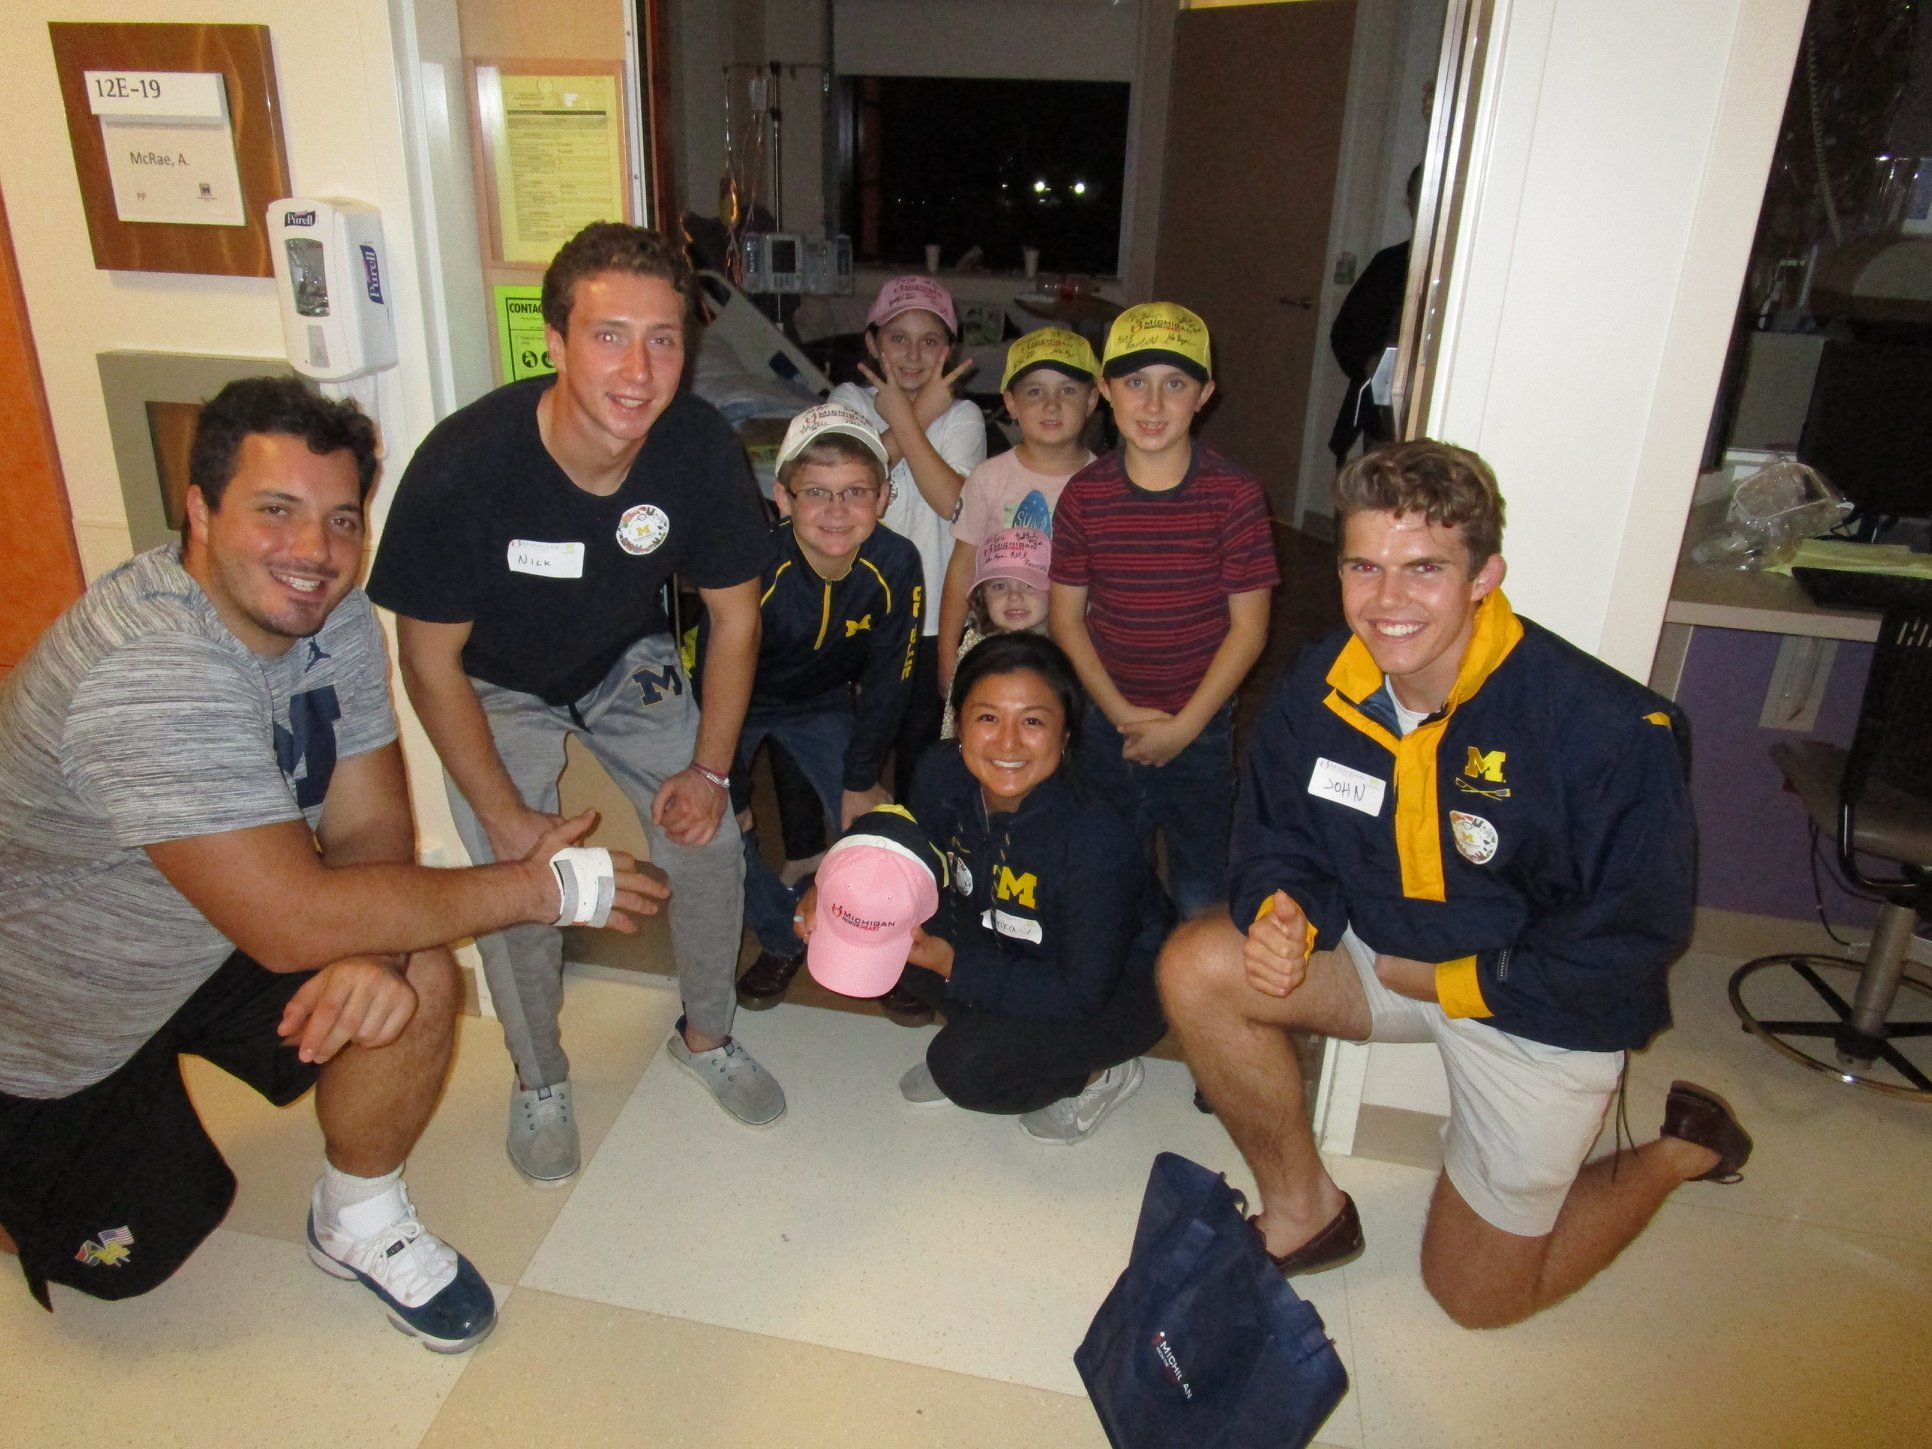
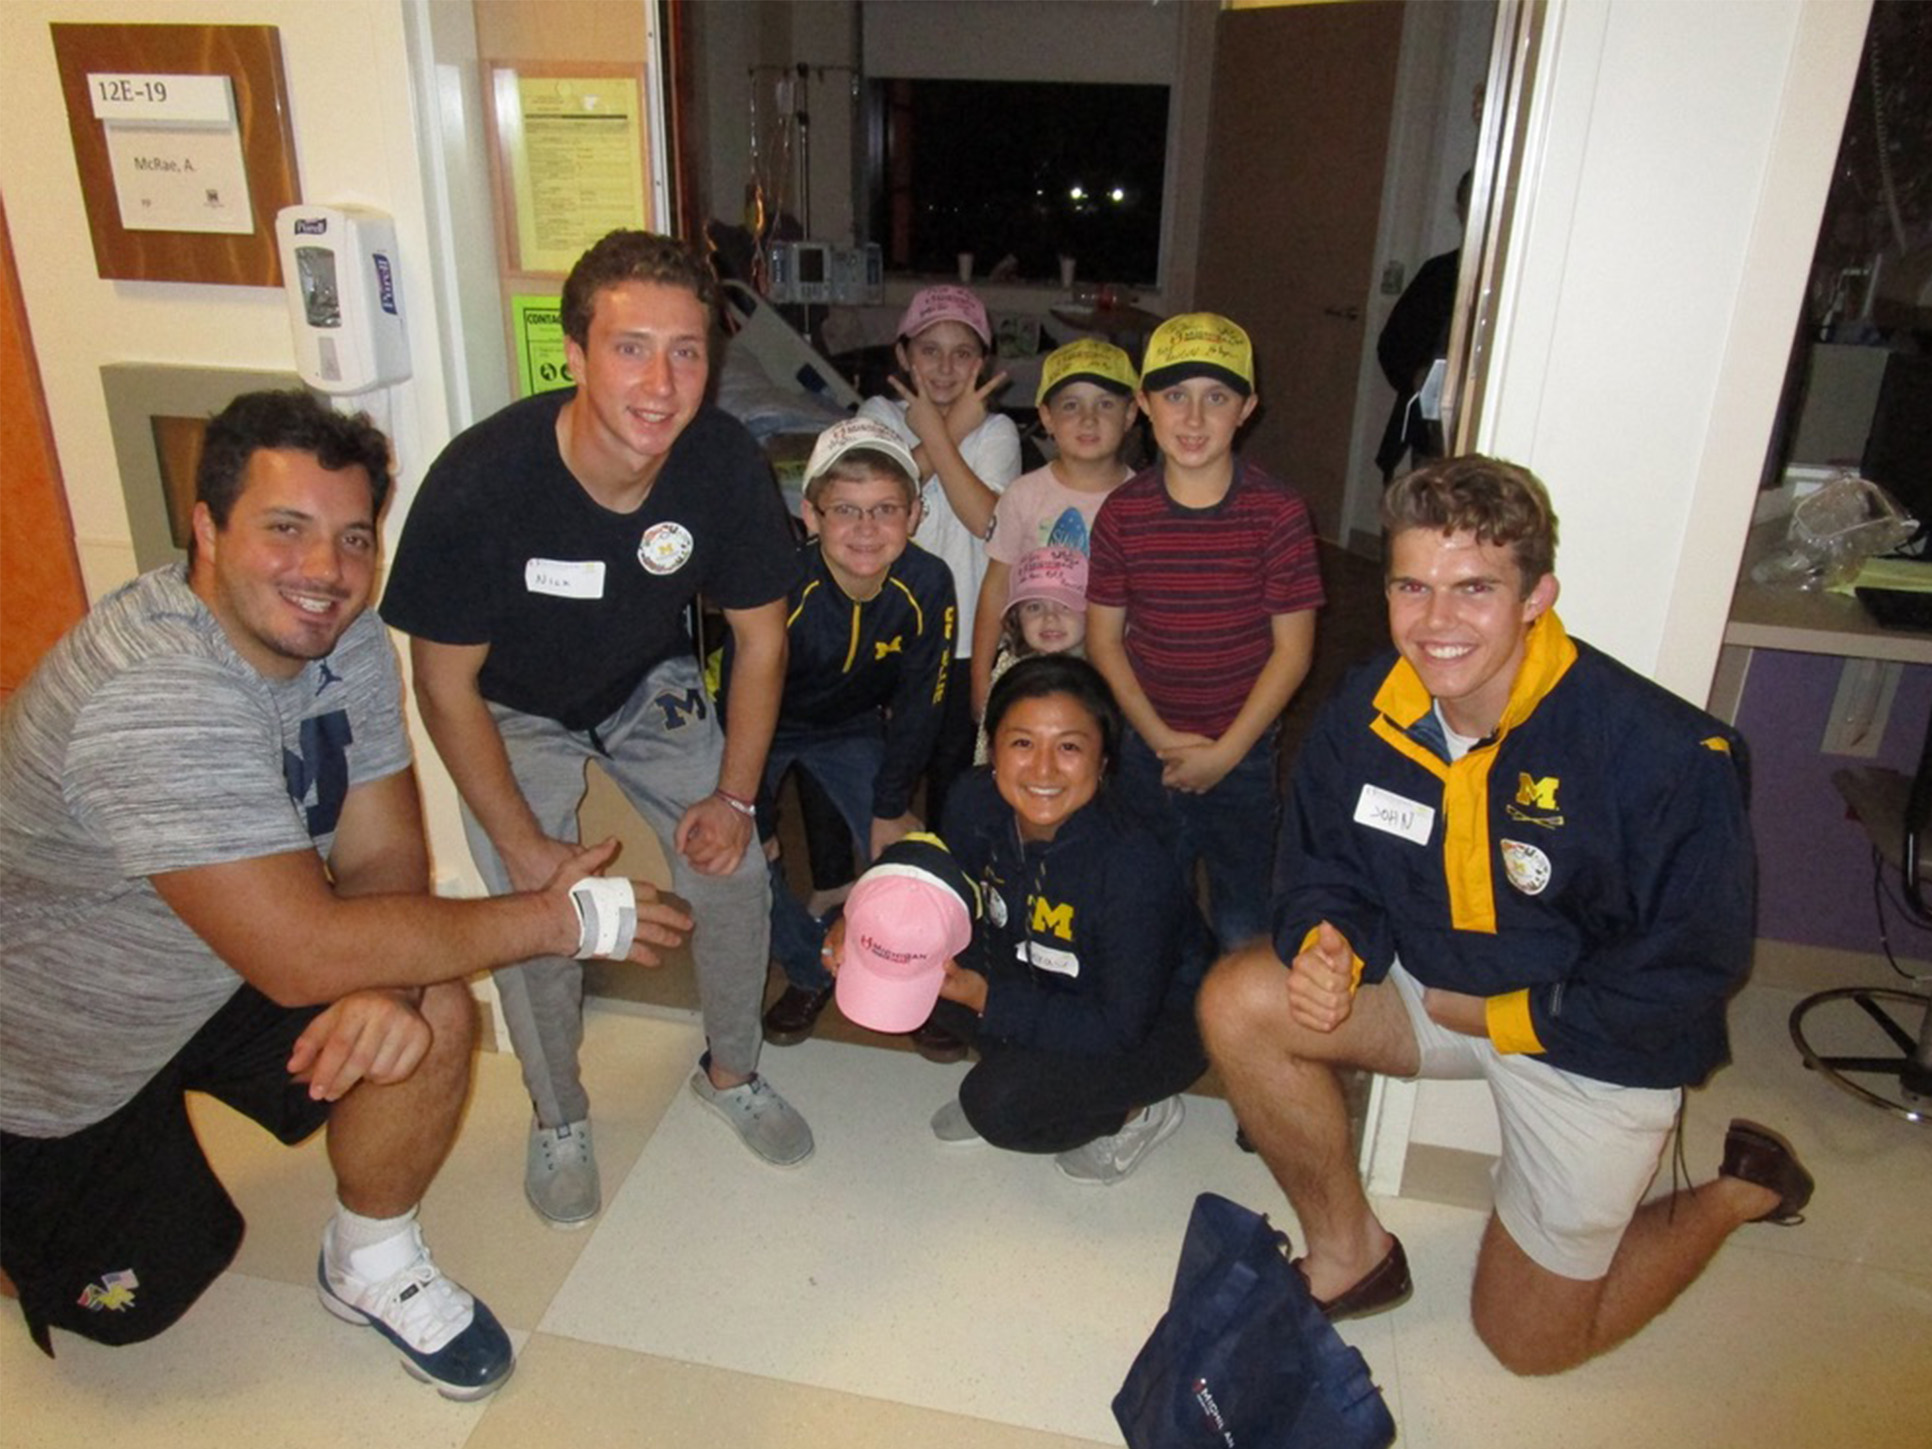
fixed red eye, working on nav

diff --git a/index.html b/index.html
@@ -21,17 +21,35 @@
                     My name is John Ragone
                 </h1>
             </div>
-            <p class="pt-3">
-                I'm a student majoring in computer science and minoring in physics at the University of Michigan.
+            <p class="pt-2">
+                I'm a student-athlete majoring in computer science and minoring in physics
+                at the University of Michigan College of Engineering.
             </p>
-            <img src="images/acra.jpeg" class="img-fluid rounded" alt="ACRA Heat">
-            <p>
-                I row on the Michigan Men's Rowing team and serve as Web Master.
-            </p>
-            <img src="images/motts.jpg" class="img-fluid rounded" alt="Mott Children's Hospital">
-            <p>
-                On Thursdays, I volunteer at C.S. Mott Children's Hospital as a student-athlete, visting patients.
-            </p>
+            <ul class="nav nav-pills nav-justified">
+                <li class="nav-item">
+                    <a class="nav-link" href="#">Background</a>
+                </li>
+                <li class="nav-item">
+                    <a class="nav-link" href="#">Experience</a>
+                </li>
+                <li class="nav-item">
+                    <a class="nav-link" href="#extracurricular">Extracurriculars</a>
+                </li>
+            </ul>
+            <div id="extracurricular">
+                <div class="pt-3">
+                    <img src="images/acra.jpeg" class="img-fluid rounded" alt="ACRA Heat">
+                    <p>
+                        I row on the Michigan Men's Rowing team and serve as Web Master.
+                    </p>
+                </div>
+                <div class="pt-3">
+                    <img src="images/motts.jpg" class="img-fluid rounded" alt="Mott Children's Hospital">
+                    <p>
+                        On Thursdays, I volunteer at C.S. Mott Children's Hospital as a student-athlete, visiting patients.
+                    </p>
+                </div>
+            </div>
             <!-- <div id="carouselExampleCaptions" class="carousel slide" data-ride="carousel">
                 <ol class="carousel-indicators">
                     <li data-target="#carouselExampleCaptions" data-slide-to="0" class="active"></li>

diff --git a/index.css b/index.css
@@ -11,12 +11,17 @@
   src: url("fonts/Nintendo-DS-BIOS.ttf");
 }
 h1 {
-  font-family: pixel2;
-  font-size: 3rem;
+  font-family: Pixel;
+  font-size: 3.5rem;
   line-height: 1.75;
 }
 
 p {
+  font-family: pixel3;
+  font-size: 2rem;
+}
+
+a {
   font-family: pixel3;
   font-size: 2rem;
 }

diff --git a/index.scss b/index.scss
@@ -12,12 +12,17 @@
 }
 
 h1 {
-    font-family: pixel2;
-    font-size: 3rem;
+    font-family: Pixel;
+    font-size: 3.5rem;
     line-height: 1.75;
 }
 
 p {
+    font-family: pixel3;
+    font-size: 2rem;
+}
+
+a {
     font-family: pixel3;
     font-size: 2rem;
 }
